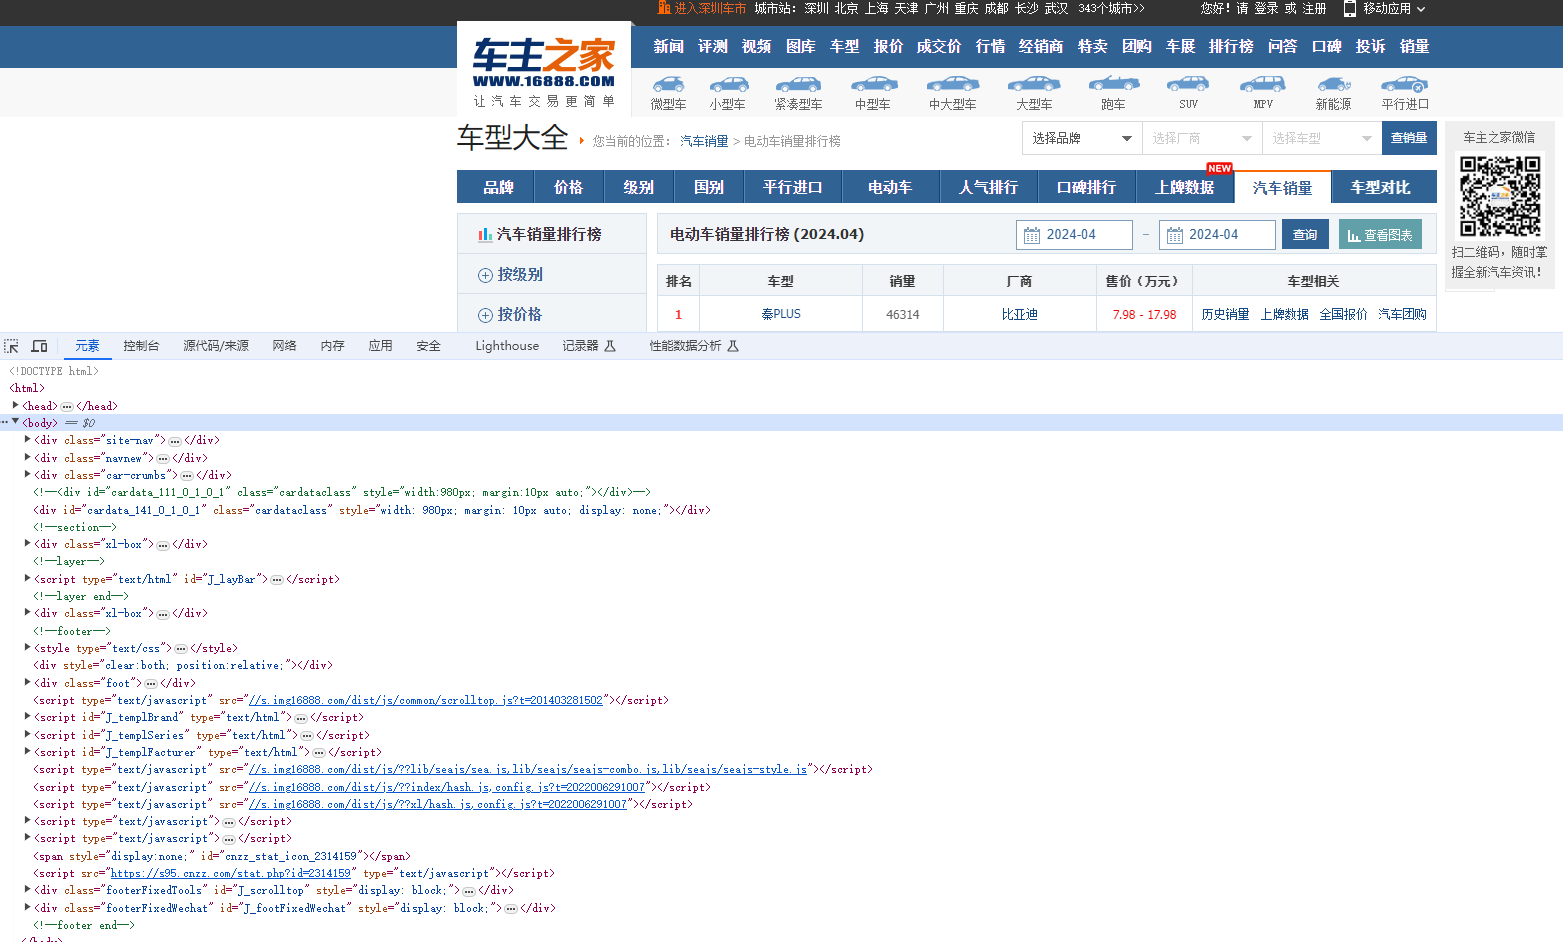
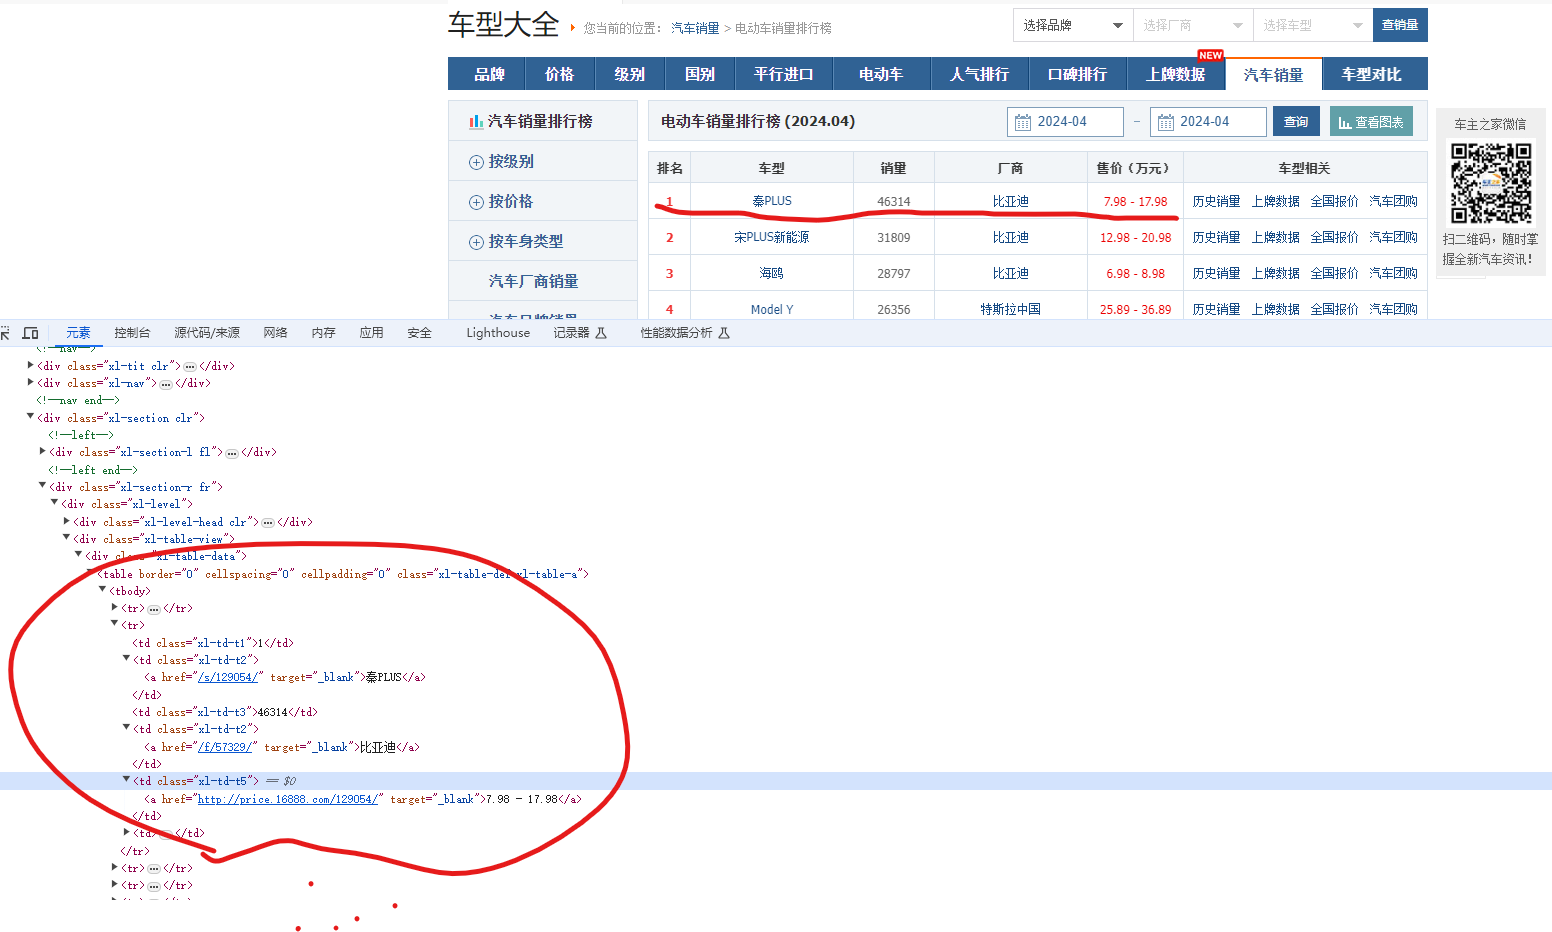
modified html and picture

Changed region(s): [[0.0, 0.0, 1.0, 1.0], [0.2784, 0.5912, 0.3402, 0.6223], [0.3402, 0.6223, 0.3711, 0.6534]]

diff --git a/index.html b/index.html
@@ -73,7 +73,7 @@
 		    &nbsp;
 		    &nbsp;
 		    &nbsp;
-		    我们可以通过电脑键盘的“F12”键来召出开发者工具，在开发者工具中，我们可以看到网页的源代码、网络请求和数据等等信息，这些信息可以帮助我们进行上述的页面数据分析，确定爬虫程序的开发思路。如下图。
+		    我们可以通过电脑键盘的“F12”键来召出开发者工具，在开发者工具中，我们可以看到网页的源代码、网络请求和数据等等信息，这些信息可以帮助我们进行上述的页面数据分析，确定爬虫程序的开发思路。如下图，可以看到页面上面的数据可以直接在源码的标签中找到，tr和td标签就是html中的制表标签，可以让数据按照表格形式展示。
 		</p>
 		<div class="carownerpic">
 		    <div class="d-flex justify-content-center" id="pic_title"><text class="text-center fs-6">图三</text></div>
